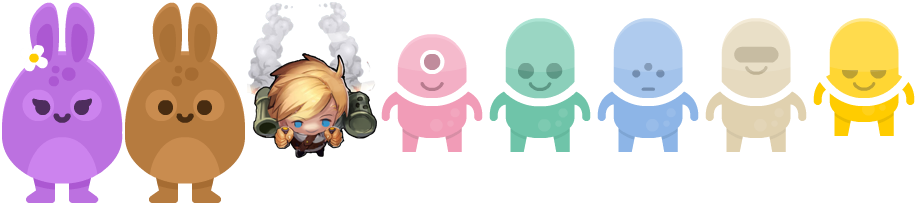
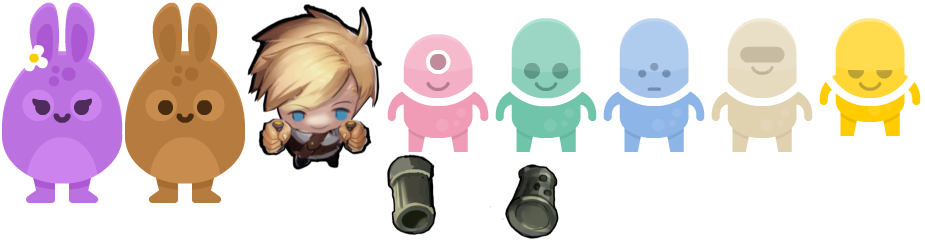
11.18 2

diff --git a/WebContent/src/Player.js b/WebContent/src/Player.js
@@ -7,6 +7,27 @@ BasicGame.Player = function (game, x, y) {
     this.physics = game.physics.arcade;
     this.physics.enable(this);
 
+    var rocket = this.game.make.sprite(0,0,'players','rocket.png')
+    rocket.anchor.set(0.5)
+    this.addChild(rocket);
+
+    var smoke = this.game.make.sprite(-80, -120, 'smoke');
+    smoke.anchor.set(0.5)
+    smoke.scale.set(2)
+    smoke.animations.add('smoke');
+    smoke.animations.play('smoke', 30, true);  
+    this.addChild(smoke);
+
+    var smoke1 = this.game.make.sprite(60, -110, 'smoke');
+    smoke1.anchor.set(0.5)
+    smoke1.scale.set(2)
+    smoke1.animations.add('smoke1');
+    smoke1.animations.play('smoke1', 30, true);  
+    this.addChild(smoke1);    
+
+    var player = this.game.make.sprite(0,0,'players',GlobalPlayerFrame)
+    player.anchor.set(0.5)
+    this.addChild(player);
     // this.body.gravity.y = 40
 
     // this.body.bounce.y = 0;

diff --git a/WebContent/src/Preloader.js b/WebContent/src/Preloader.js
@@ -78,6 +78,7 @@ BasicGame.Preloader.prototype = {
     	this.load.atlasJSONArray('bird', 'images/bird/bird.png', 'images/bird/bird.json');
     	this.load.atlasJSONArray('lightning', 'images/lightning.png', 'images/lightning.json');
     	this.load.atlasJSONArray('fire', 'images/fire.png', 'images/fire.json');
+    	this.load.atlasJSONArray('smoke', 'images/smoke.png', 'images/smoke.json');
     	this.load.atlasJSONArray('heidong', 'images/heidong.png', 'images/heidong.json');
     	this.load.atlas('zhalans', 'images/zhalan.png', 'images/zhalan.json');
     	this.load.atlas('players', 'images/playerJson.png', 'images/playerJson.json');
